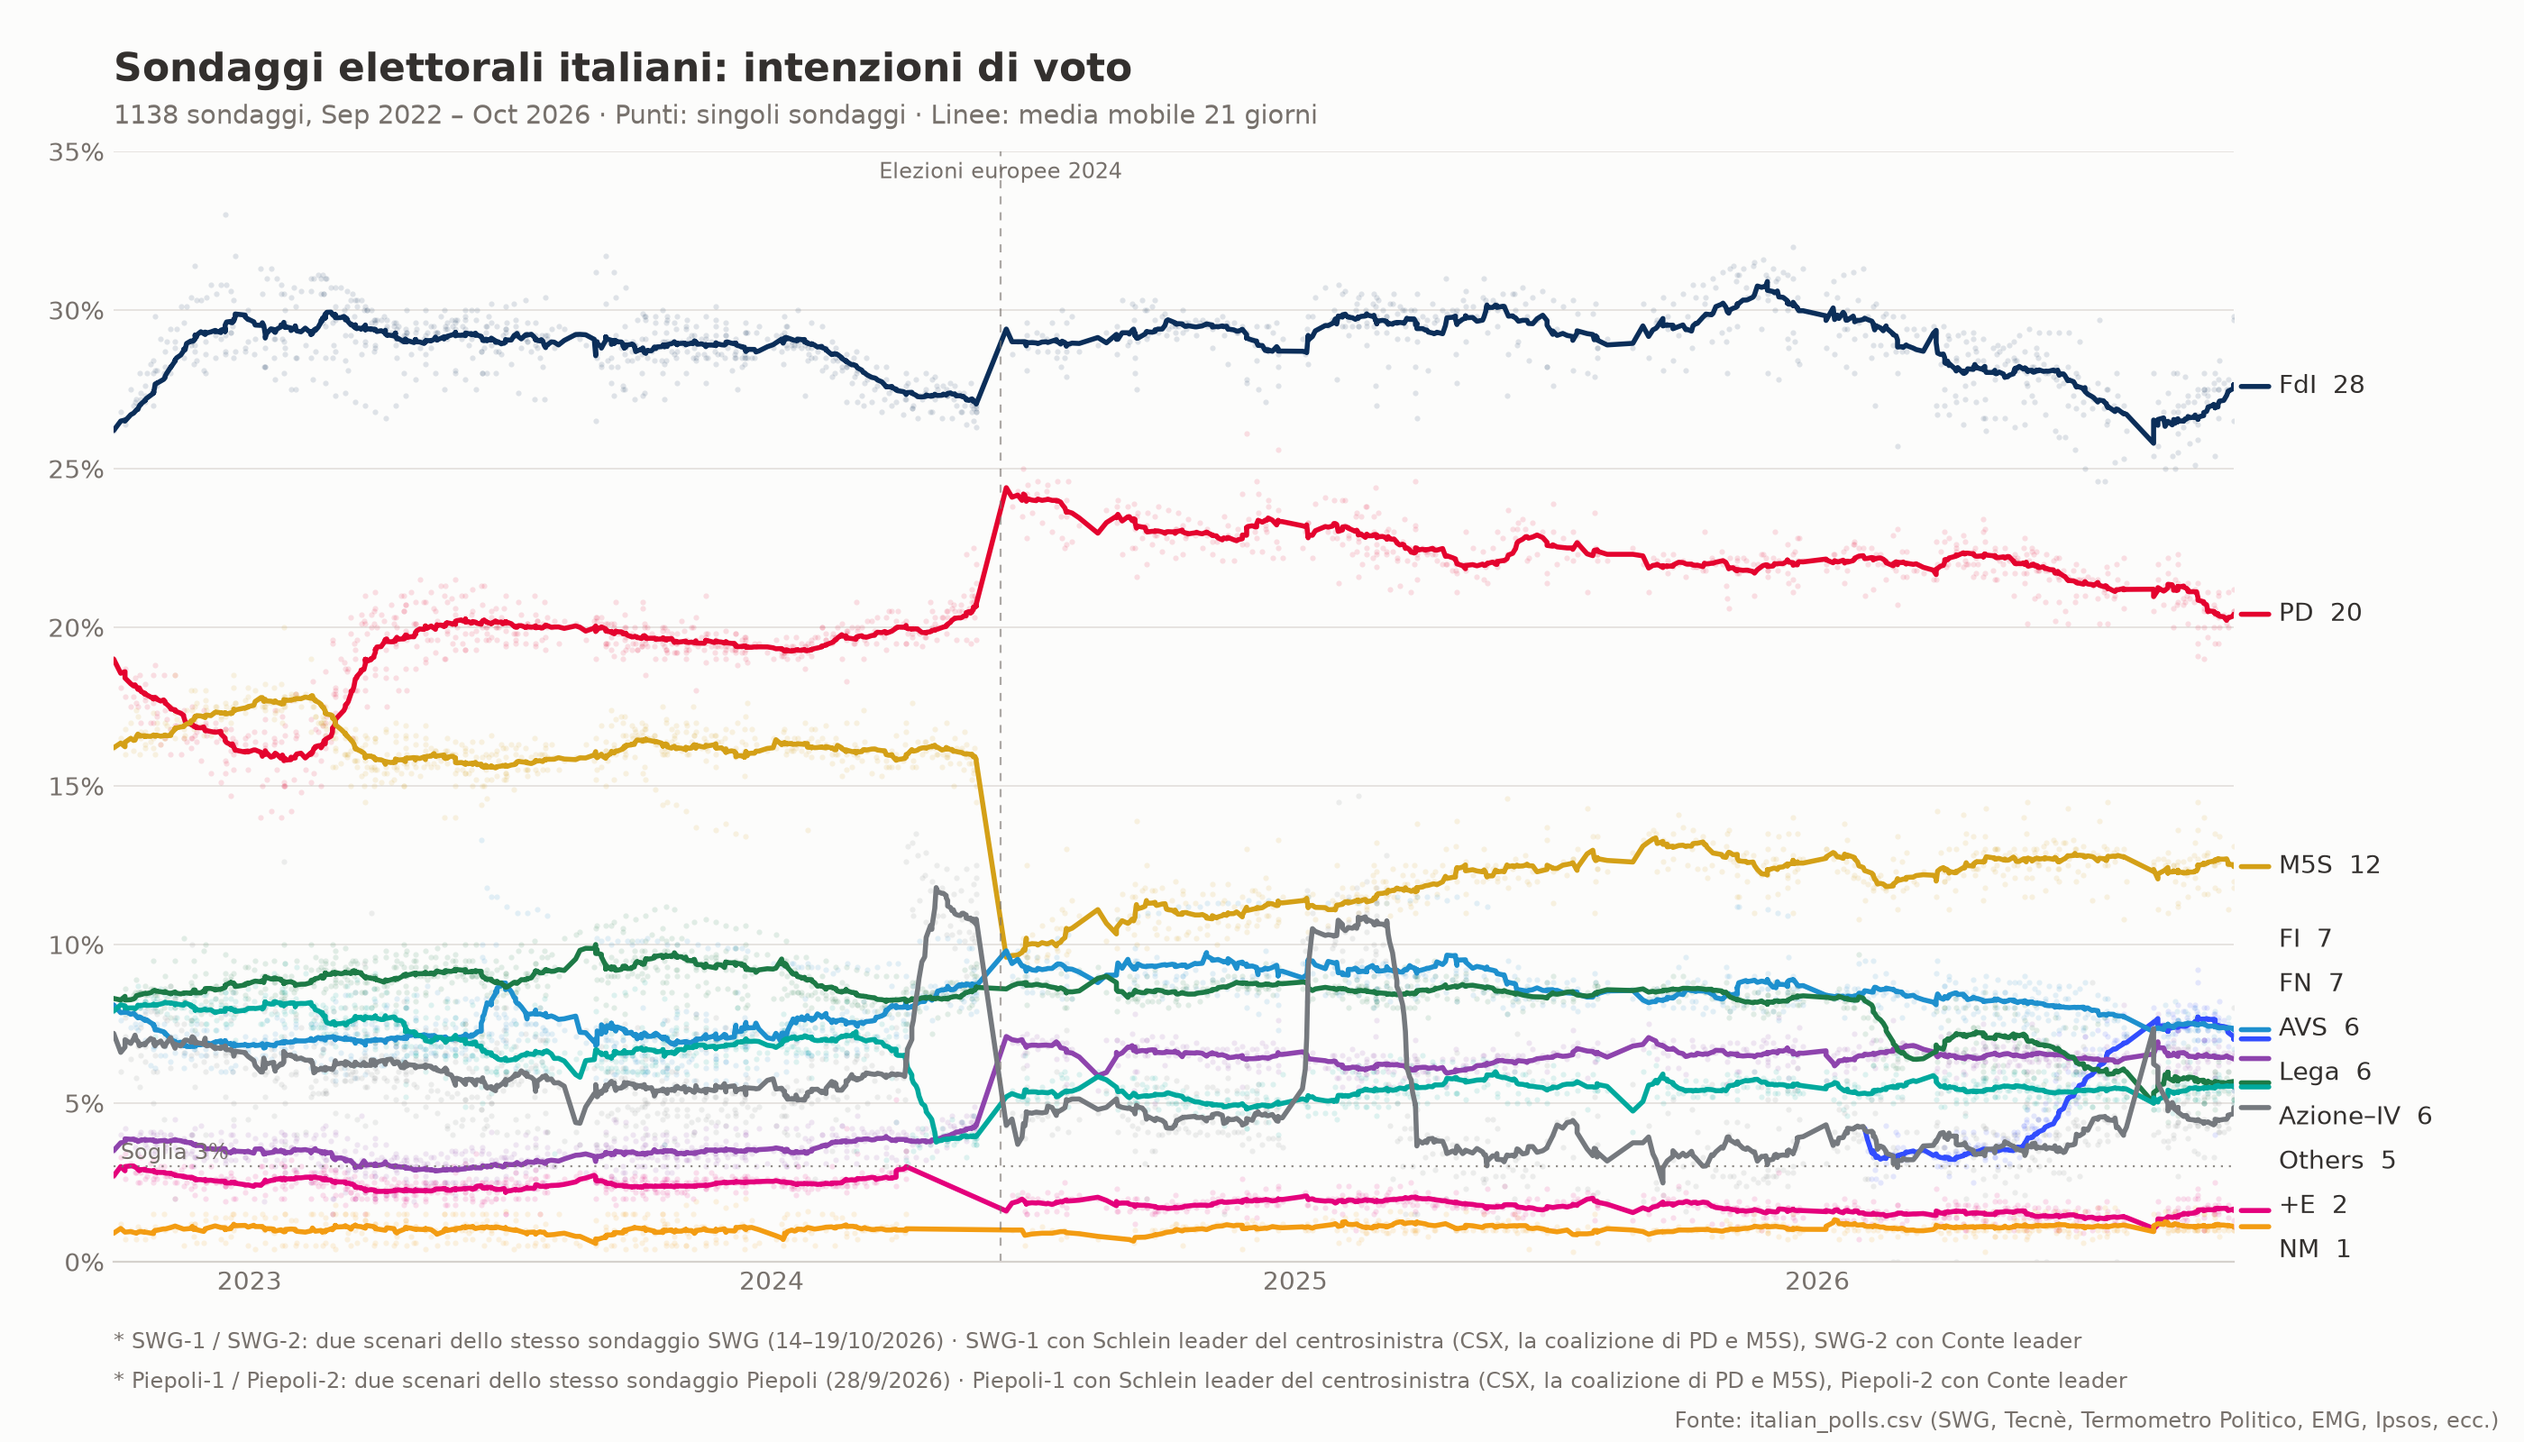
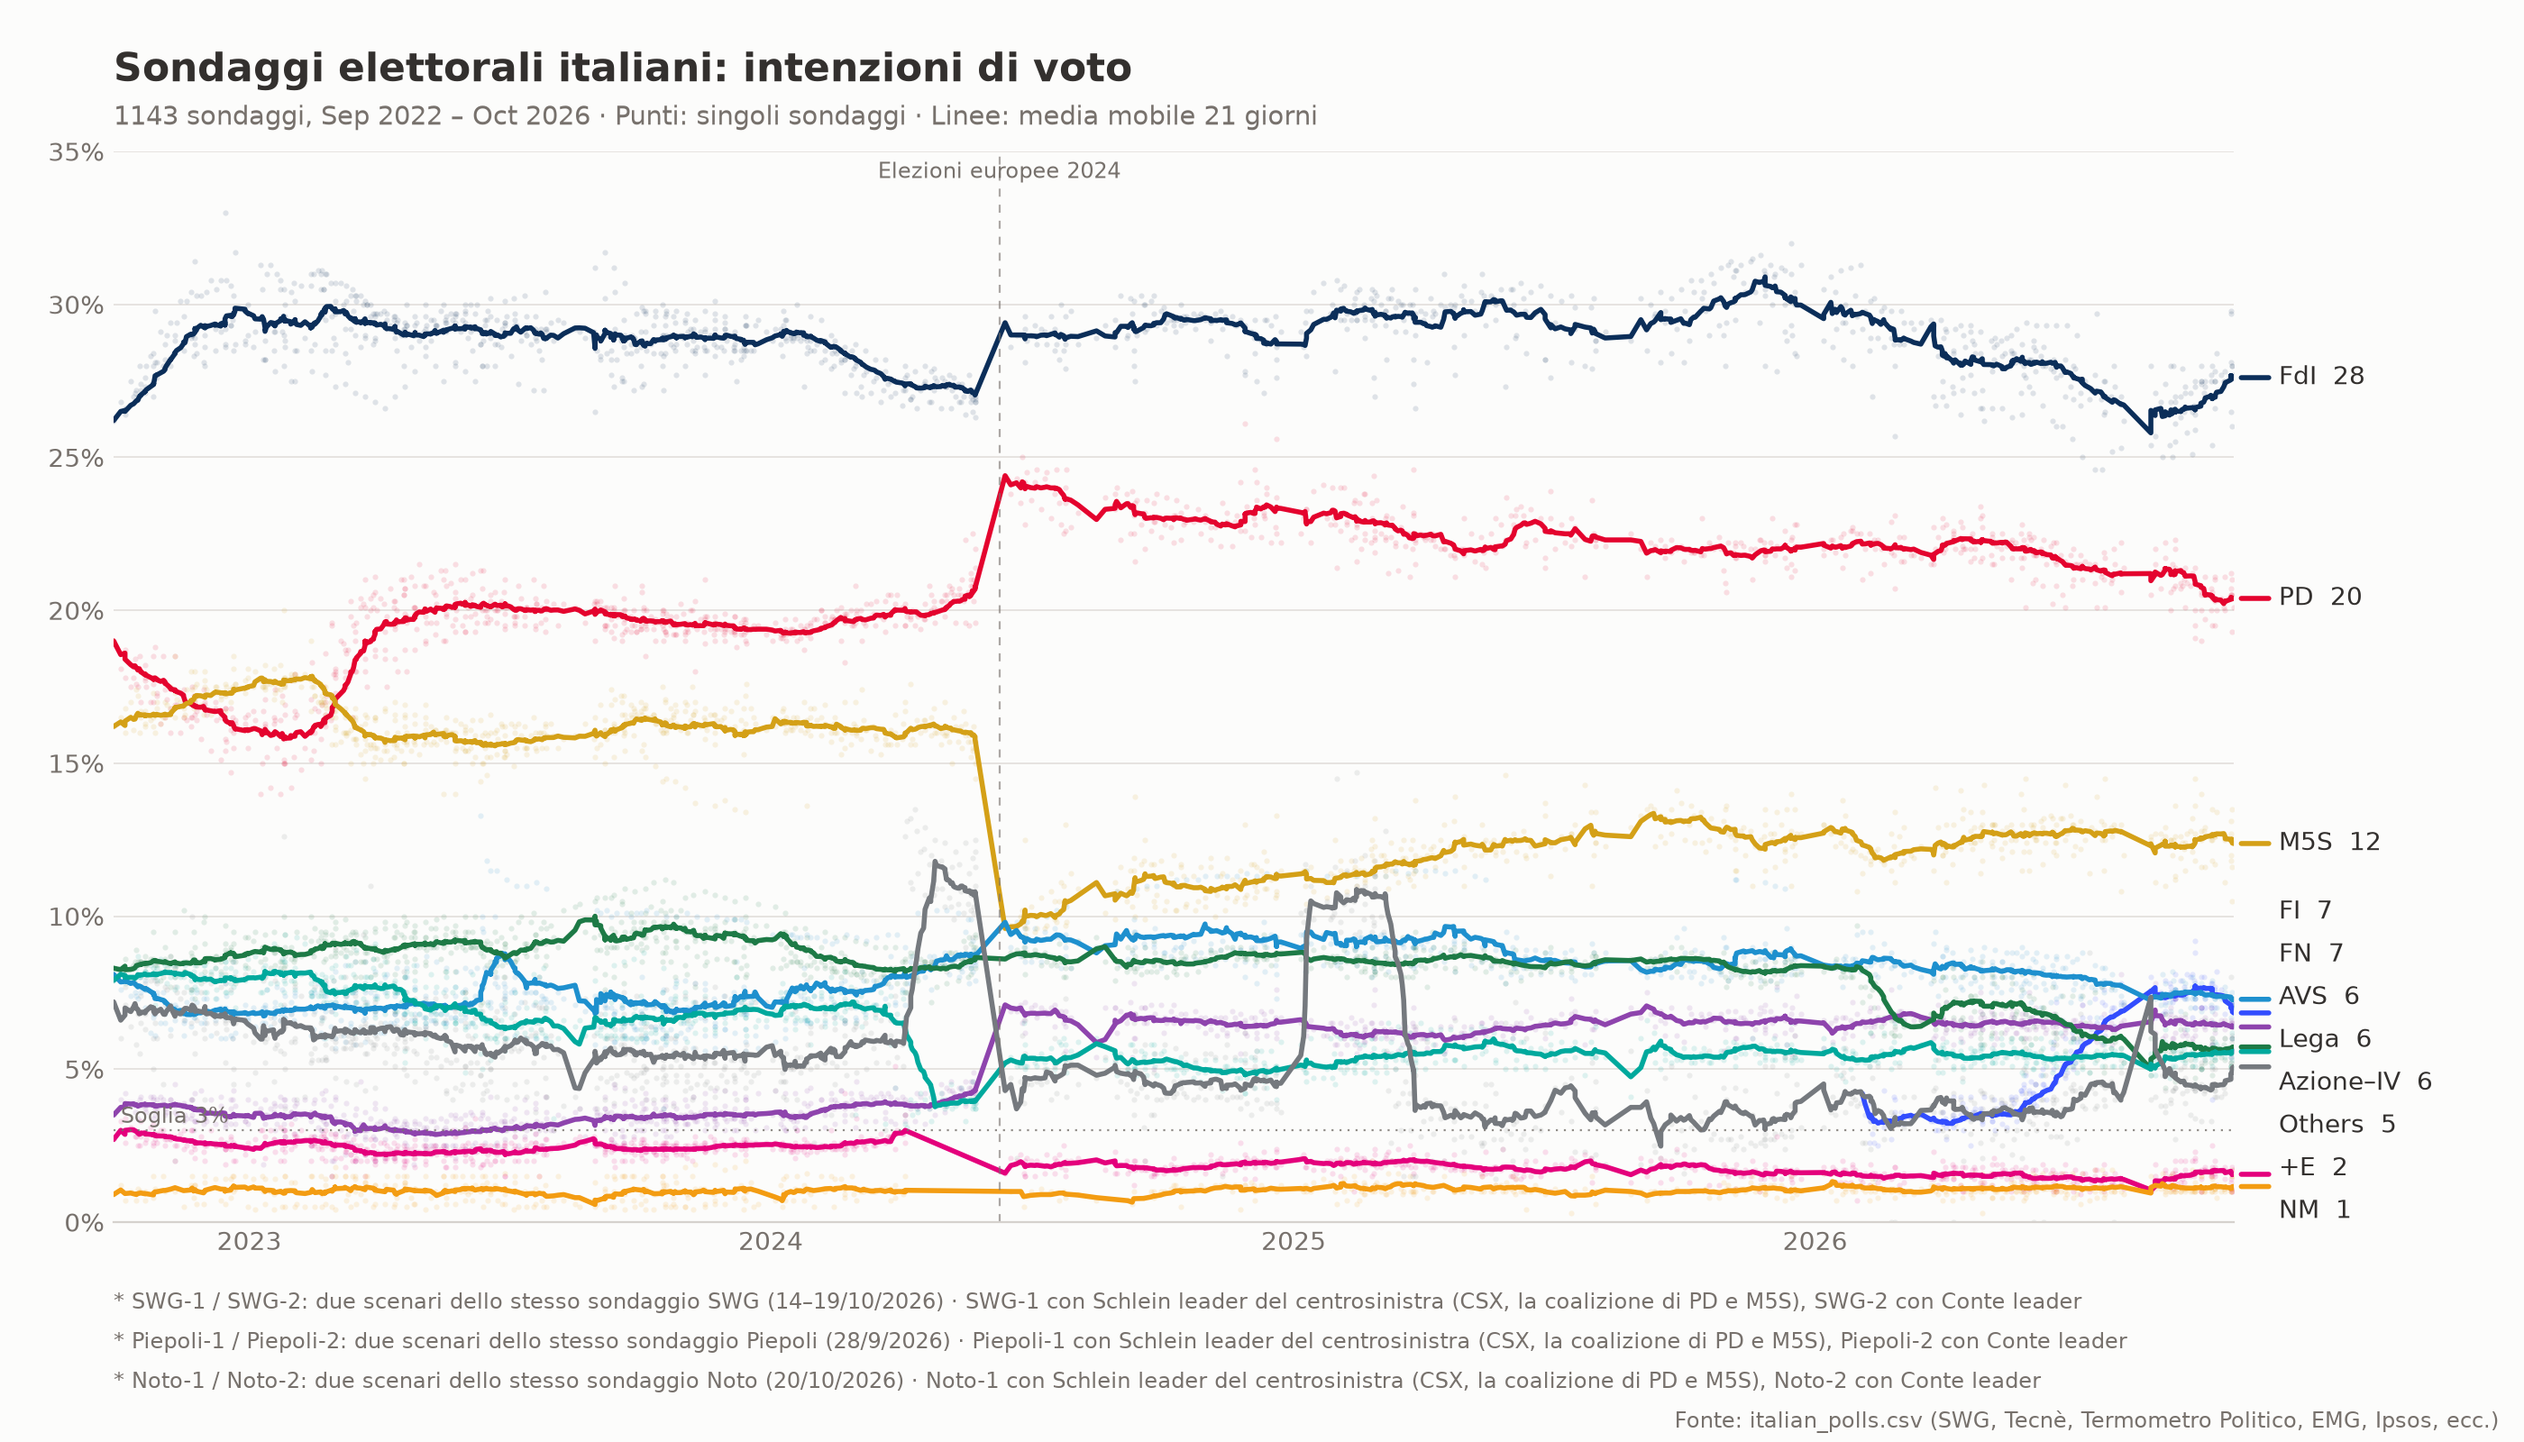
Add Eumetra (10-20/10-21), EMG (10-19/10-20), Noto Schlein/Conte scenario pair (10-20), and missed regular SWG (10-14/10-19)
Eumetra and EMG are new weekly polls. Noto published a Schlein-vs-Conte
leadership scenario pair for CSX (10-20), tagged Noto-1/Noto-2 per the
established scenario-row convention, with a footnote added to
SCENARIO_NOTES. The regular SWG row (10-14/10-19) was sourced from SWG's
separate "Radar" report, distinct from the already-committed SWG-1/SWG-2
leadership-scenario poll that shares the same fieldwork window but a
different source and different numbers.

diff --git a/main.py b/main.py
@@ -62,6 +62,11 @@ SCENARIO_NOTES = {
         "Piepoli-1 con Schlein leader del centrosinistra (CSX, la coalizione di PD e M5S), "
         "Piepoli-2 con Conte leader"
     ),
+    frozenset({"Noto-1", "Noto-2"}): (
+        "Noto-1 / Noto-2: due scenari dello stesso sondaggio Noto (20/10/2026) · "
+        "Noto-1 con Schlein leader del centrosinistra (CSX, la coalizione di PD e M5S), "
+        "Noto-2 con Conte leader"
+    ),
 }
 
 INK = "#33302e"
